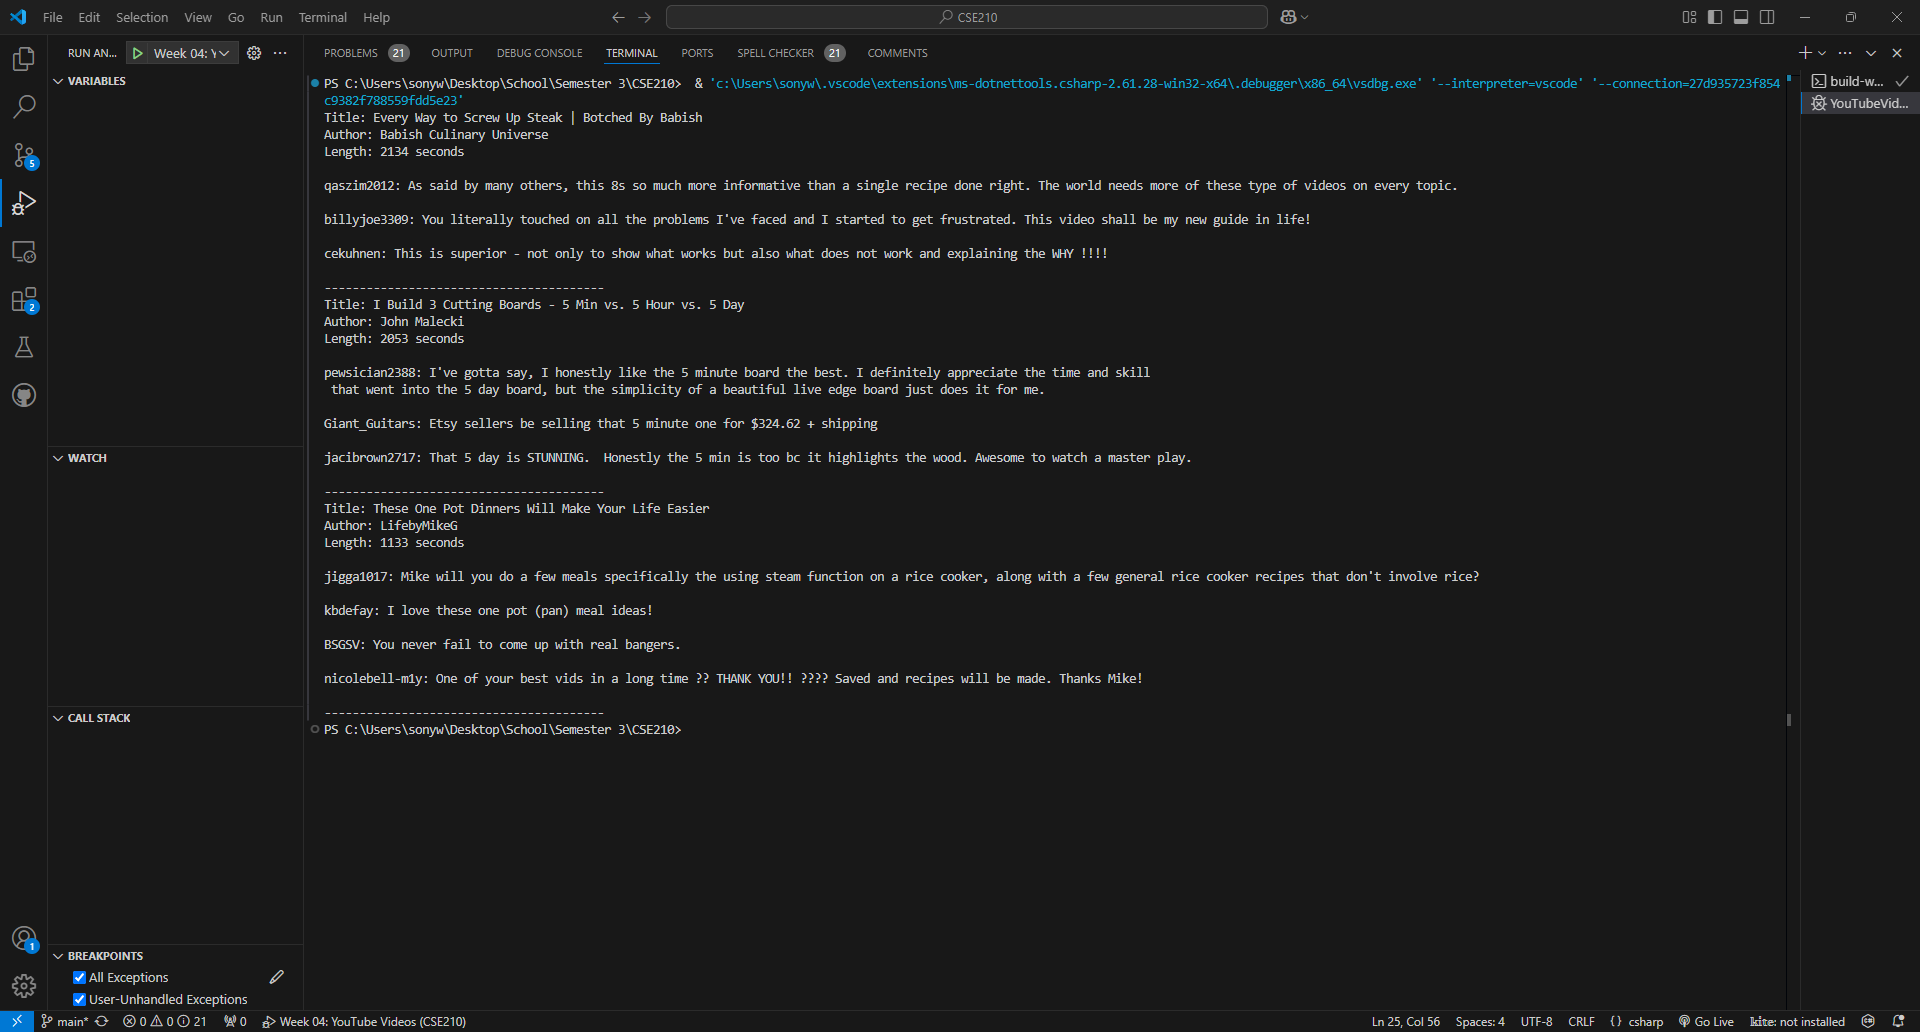
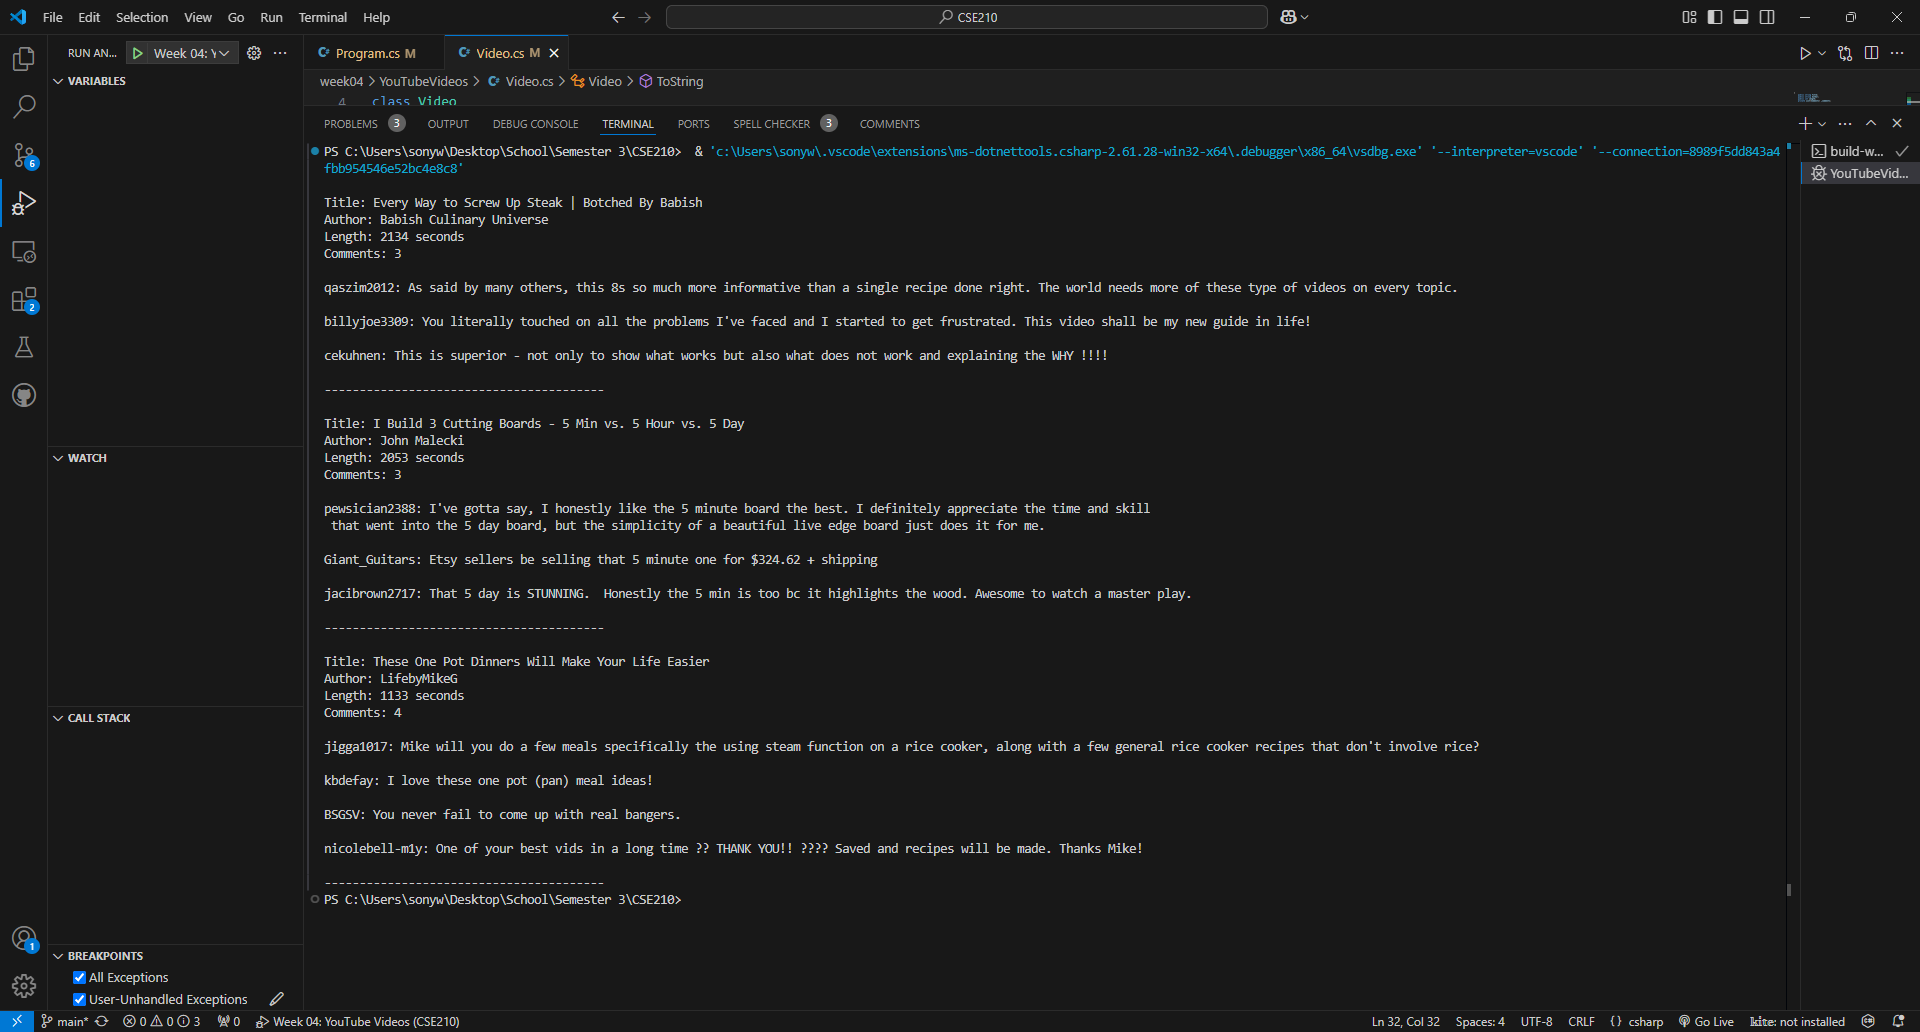
Ordering final update

diff --git a/week04/OnlineOrdering/Program.cs b/week04/OnlineOrdering/Program.cs
@@ -4,20 +4,35 @@ class Program
 {
     static void Main(string[] args)
     {
-        Address address1 = new Address("9000 Vantage Point Drive", "Dallas", "TX", "USA\n");
-        Address address2 = new Address("9001 Markville Drive", "Dallas", "TX", "USA\n");
+        Address address1 = new Address("9000 Vantage Point Drive", "Dallas", "TX", "USA");
+        Address address2 = new Address("9001 Markville Drive", "Dallas", "TX", "Canada");
 
-        Customer customer1 = new Customer("John Doe");
-        Customer customer2 = new Customer("Jane Doe");
+        Customer customer1 = new Customer("John Doe", address1);
+        Customer customer2 = new Customer("Jane Doe", address2);
+
+        Order order1 = new Order(customer1);
+        order1.AddProduct(new Product("Airpods", "P123", 134.98m, 2));
+        order1.AddProduct(new Product("Kitchen Scale", "P132", 11.49m, 1));
+        order1.AddProduct(new Product("72 Color Colored Pencils", "P125", 8.99m, 5));
+
+        Order order2 = new Order(customer2);
+        order2.AddProduct(new Product("Airpods", "P123", 134.98m, 1));
+        order2.AddProduct(new Product("Stainless steel water bottle", "P125", 10.99m, 5));
+        
 
 
-
-        Console.WriteLine(address1.FullAddress());
-        Console.WriteLine(customer1.CustomerName());
+        Console.WriteLine("\nOrder 1");
+        Console.WriteLine("Packing Label:\n" + order1.PackingLabel() + "\n");
+        Console.WriteLine("Shipping Label:\n" + order1.ShippingLabel() + "\n");
+        Console.WriteLine("Total Price: $" + order1.TotalPrice());
         Console.WriteLine(new string('-', 40));
+       
 
-        Console.WriteLine(address2.FullAddress());
-        Console.WriteLine(customer2.CustomerName());
+        Console.WriteLine("\nOrder 2");
+        Console.WriteLine("Packing Label:\n" + order2.PackingLabel() + "\n");
+        Console.WriteLine("Shipping Label:\n" + order2.ShippingLabel() + "\n");
+        Console.WriteLine("Total Price: $" + order2.TotalPrice());
         Console.WriteLine(new string('-', 40));
+      
     }
 }

diff --git a/week04/OnlineOrdering/Order.cs b/week04/OnlineOrdering/Order.cs
@@ -1,0 +1,40 @@
+using System;
+
+class Order
+{
+    private List<Product> _products;
+    private Customer _customer;
+
+    public Order(Customer customer)
+    {
+        _customer = customer;
+        _products = new List<Product>();
+    }
+
+    public void AddProduct(Product product)
+    {
+        _products.Add(product);
+    }
+
+    public decimal TotalPrice()
+    {
+        return _products.Sum(product => product.TotalCost()) + (_customer.IsInUSA() ? 5 : 35);
+    }
+
+    public string PackingLabel()
+    {
+        List<string> labels = new List<string>();
+        foreach (var product in _products)
+        {
+            labels.Add(product.PackingLabel());
+        }
+        return string.Join("\n", labels);
+    }
+
+    public string ShippingLabel()
+    {
+        return _customer.ShippingLabel();
+    }
+
+
+}

diff --git a/week04/OnlineOrdering/Customer.cs b/week04/OnlineOrdering/Customer.cs
@@ -3,14 +3,21 @@ using System;
 class Customer
 {
     private string _customerName;
+    private Address _address;
 
-    public Customer(string customerName)
+    public Customer(string customerName, Address address)
     {
         _customerName = customerName;
+        _address = address;
     }
 
-    public string CustomerName()
+    public bool IsInUSA()
     {
-        return $"{_customerName}"; 
+        return _address.InUSA();
+    }
+
+    public string ShippingLabel()
+    {
+        return $"{_customerName}\n{_address.FullAddress()}"; 
     }
 }

diff --git a/week04/YouTubeVideos/Video.cs b/week04/YouTubeVideos/Video.cs
@@ -22,9 +22,14 @@ class Video
         _comments.Add(comments);
     }
 
+    public int CommentCount()
+    {
+        return _comments.Count;
+    }
+
     public override string ToString()
     {
-        string videoInfo = $"Title: {Title}\nAuthor: {Author}\nLength: {Length} seconds\n";
+        string videoInfo = $"\nTitle: {Title}\nAuthor: {Author}\nLength: {Length} seconds\nComments: {CommentCount()}\n";
         string commentsContent = string.Join("\n",_comments);
         
         return $"{videoInfo}\n{commentsContent}";

diff --git a/week04/OnlineOrdering/Product.cs b/week04/OnlineOrdering/Product.cs
@@ -23,6 +23,6 @@ class Product
 
     public string PackingLabel()
     {
-        return $"{_productName} Id: {_productId}";
+        return $"{_productName} Id: {_productId} Quantity: {_quantity}";
     }
 }
